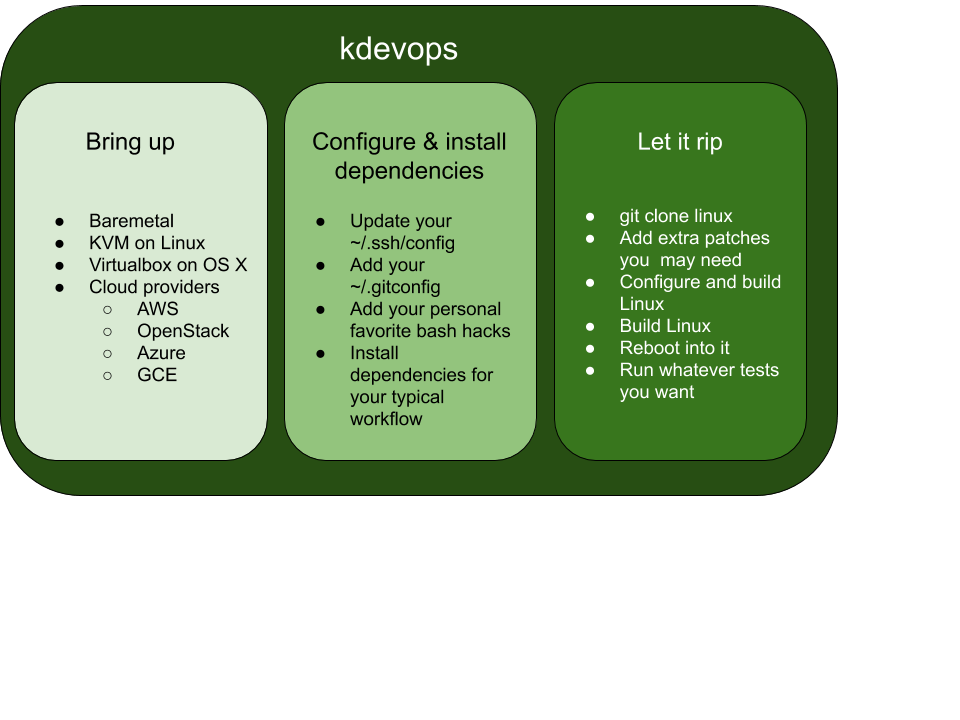
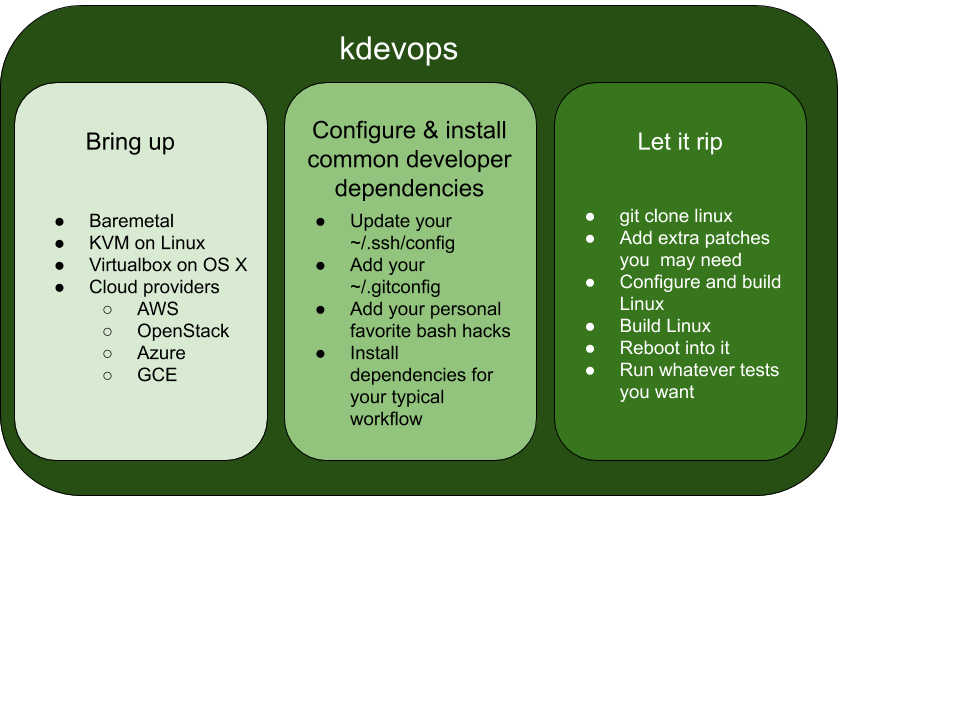
Update to kdevops v2.0.1 and updates docs

Changed region(s): [[0.3125, 0.1528, 0.5312, 0.275]]

diff --git a/README.md b/README.md
@@ -37,6 +37,19 @@ This project synchronizes releases based on that role's own releases, and
 so there is parity in release numbers between both of these projects to
 reflect this.
 
+## Be lazy and override all settings in one optional file
+
+To help users easily override role variables *all* of the kdevops ansible roles
+look for optional extra argument files, which you can use to override *all*
+role defaults. This is a `kdevops` thing, to help you be lazy. Since ansible
+roles are expected to be defined in a directory, we look at the parent directory
+for these optional files, and use the first one found. The oder of the files
+we look for is:
+
+  * `extra_args.yml`
+  * `extra_args.yaml`
+  * `extra_args.json`
+
 ## Fork me
 
 You can either fork this project to start your own kdevops project, or you can
@@ -59,9 +72,11 @@ need to use vagrant or terraform if you are using baremetal hosts.
 
 Vagrant makes use of three ansible roles to let you use libvirt as a regular
 user, update your `~/.ssh/config`, update the systems with basic development
-preference files, things like your `.gitconfig` or bashrc hacks. This last part
-is handled by the `devconfig` ansible role. Since your `~/.ssh/config` is
-updated you can then run further ansible roles manually when using vagrant.
+preference files, things like your `.gitconfig` or bashrc hacks, or typical
+packages which you most likely need on any system where you do Linux kernel
+development. This last part is handled by the `devconfig` ansible role. Since
+your `~/.ssh/config` is updated you can then run further ansible roles manually
+when using vagrant.
 
 You would use terraform if instead you want to provision hosts on the cloud, it
 updates your `~/.ssh/config` directly without ansible. Setting up hosts with
@@ -72,7 +87,7 @@ these buggy cloud providers the last provisioning step of running ansible to
 update your `~/.ssh/config` and the `devconfig` ansible role would time out.
 Because of these buggy cloud providers the last step to run ansible to
 update your `~/.ssh/config` and run the `devconfig` ansible role is
-expected to be done manually.
+expected to be done manually. One day we expect this to not be an issue.
 
 After provisioning you want to get Linux, configure it, build it, install it
 and reboot into it. This is handled by the `bootlinux` ansible role. This is
@@ -82,19 +97,57 @@ more eleborate examples, which take this further. For instance:
   * [fw-kdevops](https://github.com/mcgrof/fw-kdevops) - Linux kernel firmware loader testing, and demo for selftests
   * [oscheck](https://github.com/mcgrof/oscheck) - Linux kernel filesystem testsing
 
-## What works
+# Operating Systems supported by kdevops
 
-What works? At this point all of our goals are completed and supported now.
+The following operating systems are supported
 
-  * Automated setup of libvirt to let you use libvirt as a regular user
-  * Full vagrant provisioning, including updating your `~/.ssh/config`
-  * Terraform provisioning on different cloud providers, and updating
-    your `~/.ssh/config` for you
-  * Running ansible to install dependencies on debian
-  * Using ansible to clone, compile and boot into to any random kernel git tree
-    with a supplied config
+  * Linux
+  * OS X
 
-# Install dependencies
+Adding windows support should be easy, if a recent version of vagrant,
+terraform, and ansible can be found.
+
+# Linux distribution support by kdevops
+
+There are two scopes to consider for Linux distribution support, one the
+host, and then for the target systems. We document our support for each
+here.
+
+## Host Linux distribution support by kdevops
+
+Linux Distribution support is only relevant for the host system which you
+will use as your `command and control center`, if you will.
+
+Distributions are supported as new users add support for them. Adding support
+for a new distribution typically just consists of updating the kdevops
+ansible roles with support for doing a mapping of package names, package
+manager updates, and ensuring your distribution can install the latest
+version of vagrant and terraform. Because you *want* the latest version of
+vagrant and terraform rolling Linux distributions are encouraged to be used.
+Currently supported Linux distributions:
+
+  * Debian testing
+  * OpenSUSE Tumbleweed
+
+If your distribution does not have vagrant and terraform packaged, support
+is provided to download the latest releases via the published zip files,
+however this can get complex quite fast due to the dependency chain.
+
+# Target Linux distributions support
+
+*Any* Linux distribution can be used as a target, however, the kdevops ansible
+roles would need to be updated to map for distribution specific things such
+as package names, and if you are using an enterprise release how to register
+it. Give kdevops a test run, and if you get support added, feel free to extend
+this list.
+
+Currently supported target Linux distributions:
+
+   * Debian testing
+   * OpenSUSE Tumbleweed
+   * SUSE Linux
+
+# Project dependencies
 
 You will have to install ansible, and python. We do the rest for you.
 
@@ -132,15 +185,17 @@ The following Operating Systems are supported:
 
 ### Running libvirt as a regular user
 
-kdevops can be used without requiring root privileges. We have an ansible
-role which takes care of dealing with this for you. You'd only use libvirt
-if using Linux.
+kdevops is designed be used without requiring root privileges, however your
+user must be allowed to run sudo without a password, and for the regular
+user to also be able to run libvirt commands as a regular user. We have an
+ansible role which takes care of dealing with this for you. You'd only use
+libvirt if using Linux.
 
 ### Node configuration
 
-The term `host` is often used to describe `localhost`, and so to help distinguish
-`localhost` from your target hosts you'd use for development we refer to target
-hosts for development as `nodes`.
+The term `host` is often used to describe `localhost`, and so to help
+distinguish `localhost` from your target hosts you'd use for development we
+refer to target hosts for development as `nodes`.
 
 We use a yml file to let you describe your project's nodes and how to configure
 them. You configure your node target deployment on the
